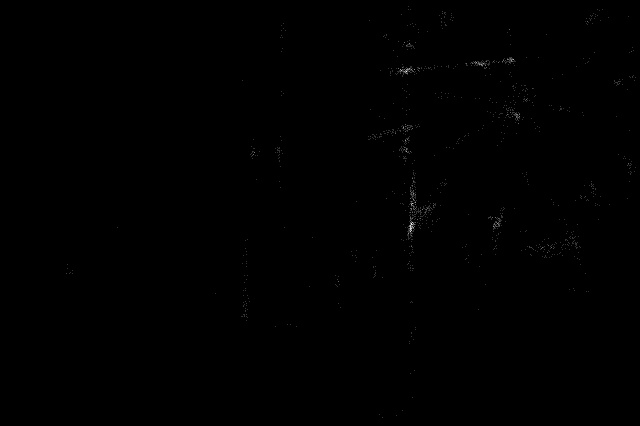
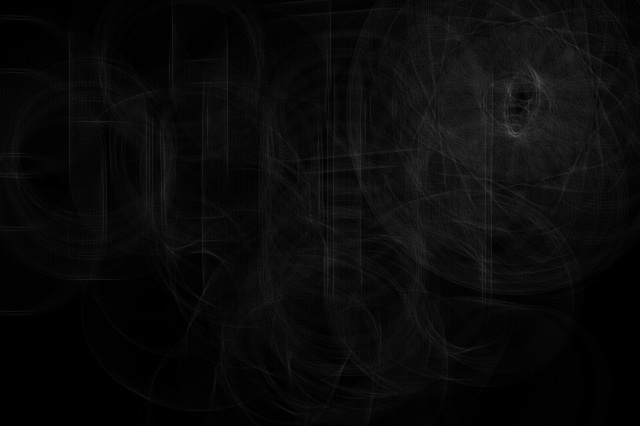
stable version

diff --git a/subtask3.py b/subtask3.py
@@ -241,10 +241,9 @@ def ht_to_rectangle(frame,circles,min_dis = 50):
         x2=max(ulx,urx,lrx,llx)
         y1=min(uly,ury,lry,lly)
         y2=max(uly,ury,lry,lly)
-        # cv2.rectangle(frame, (x1, y1), (x2, y2), (255,0,0), 3)
-        arr = np.array([x1,y1,x2,y2])
-        boxes.append(arr)
-        cv2.circle(frame,(a,b),r,color=color,thickness=4)
+        # cv2.rectangle(frame, (x1, y1), (x2, y2), (0,0,255), 3)
+        boxes.append([x1,y1,x2,y2])
+        # cv2.circle(frame,(a,b),r,color=color,thickness=4)
         # cv2.circle(frame, (a,b),0, color=(0, 0, 255), thickness=4) 
     
     cv2.imwrite('circle_dart1.jpg',frame)
@@ -303,13 +302,6 @@ def rectangle_intersection(box1, box2):
     # return the intersection over union value
     return iou
 
-def eval(box1,box2,iou, threshold):  
-    if(iou>=threshold):
-        x,y,w,h = combineBoundingBox(box1,box2)
-        cv2.rectangle(frame,(x,y),(x+w,y+h),(0,0,255),3)
-        cv2.imwrite('mix-detector.jpg',frame)
-        # display merge of two boxes
-
 def combineBoundingBox(box1, box2):
     x = min(box1[0], box2[0])
     y = min(box1[1], box2[1])
@@ -344,7 +336,7 @@ def check_if_intersect(box1,box2):
 #     main()
 
 #%%
-frame = cv2.imread('dart1.jpg',cv2.IMREAD_COLOR)
+frame = cv2.imread('dart0.jpg',cv2.IMREAD_COLOR)
 frame_grey = cv2.cvtColor(frame,cv2.COLOR_BGR2GRAY)  
 #%%
 smooth_img = gaussian_blur(frame_grey,3)
@@ -365,17 +357,51 @@ ht_darts = ht_to_rectangle(frame,circles)
 viola_darts = VJ_detector(frame,cascade_name)   
 # %%
 #  combining viola jones detector and circle hough transform 
+def final_box(ht_darts,viola_darts,threshold=0.3):
+    combined_boxes = []
+    for  i  in range(len(ht_darts)):
+        for j in range(len(viola_darts)):
+            if(check_if_intersect(ht_darts[i],viola_darts[j])):
+                iou = rectangle_intersection(ht_darts[i],viola_darts[j])
+                print(iou)
+                if(iou>=threshold):
+                    x,y,x1,y1 = combineBoundingBox(ht_darts[i],viola_darts[j])
+                    combined_boxes.append([x,y,x1,y1])
+    return combined_boxes
+            # viola and hough_transform combined , break from loop
 
-for  i  in range(len(ht_darts)):
-    for j in range(len(viola_darts)):
-        if(check_if_intersect(ht_darts[i],viola_darts[j])):
-            iou = rectangle_intersection(ht_darts[i],viola_darts[j])
-            print(iou)
-            eval(ht_darts[i],viola_darts[j],iou,threshold=0)
+best_box = final_box(ht_darts,viola_darts)
 
+#%%
 
+def final_display(box,v_box):
+    # best box list is empty
+    if not box:
+        # display viola-detector box
+        for i in range(len(v_box)):
+            b = v_box[i]
+            cv2.rectangle(frame,(b[0],b[1]),(b[2],b[3]),(0,255,0),3)
+    # display best boxes
+    else:
+        for i in range(len(box)):
+            b = box[i]
+            cv2.rectangle(frame,(b[0],b[1]),(b[2],b[3]),(255,0,0),3)        
+    cv2.imwrite('combined-detector.jpg',frame)
 
+final_display(best_box,viola_darts)
 
 # %%
- 
+def threshold_hough_space(hs_3d,R_min=60,R_max=80,threshold= 150):
+    a,b,r = hs_3d.shape
+    hs_copy = np.copy(hs_3d)
+    for x in range(0,a):
+        for y  in range(0,b):
+            for z in range(R_min,R_max):
+                if hs_copy[x,y,z] <=threshold:
+                   hs_copy[x,y,z] = 0 
+    return hs_copy
+trs_hs = threshold_hough_space(hs)
+trs_hs_2d = houghspace_2D(trs_hs)
+cv2.imwrite('2d-thresholded.jpg',trs_hs_2d)
+
 # %%
